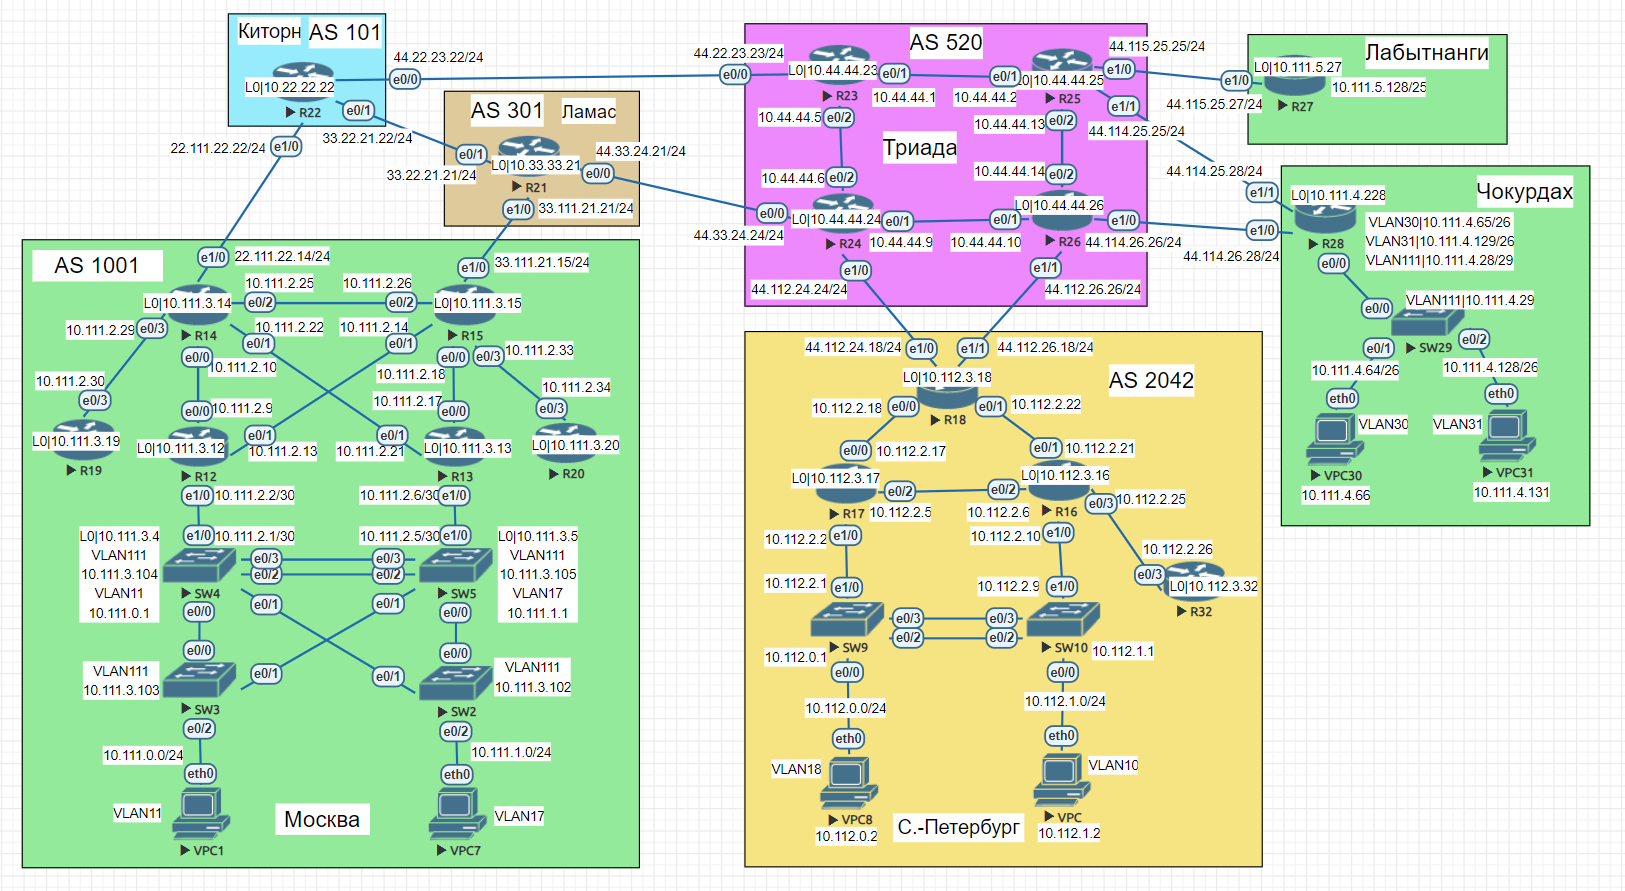
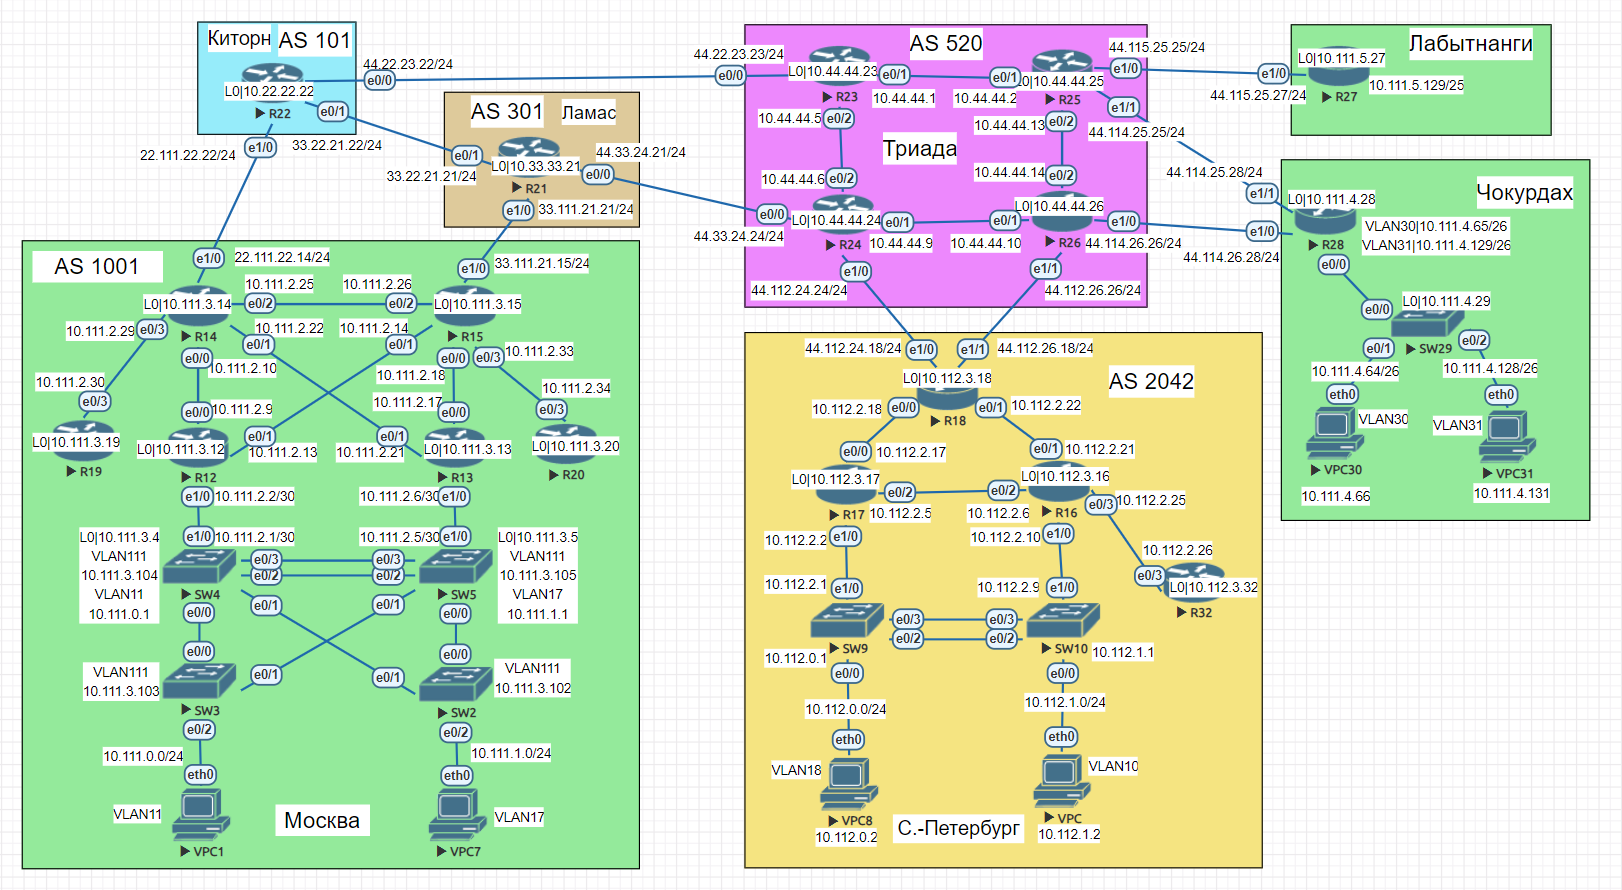
Commit 10.1.6

Changed region(s): [[0.0, 0.0, 0.9864, 1.0], [0.185, 0.6978, 0.2158, 0.7281]]

diff --git a/Labs/Hw05/README.md b/Labs/Hw05/README.md
@@ -15,11 +15,10 @@
 |Чокурдах|
 |VPC30 |eth0     |10.111.4.66  |255.255.255.192|VPC30         |
 |VPC31 |eth0     |10.111.4.131 |255.255.255.192|VPC31         |
-|SW29  |VLAN111	 |10.111.4.29  |255.255.255.248|SW29 Mgmt     |
-|R28   |Loopback0|10.111.4.228 |255.255.255.255|R28 Mgmt      |
+|SW29  |Loopback0|10.111.4.29  |255.255.255.255|SW29 Mgmt     |
+|R28   |Loopback0|10.111.4.28  |255.255.255.255|R28 Mgmt      |
 |R28   |E0/0.30  |10.111.4.65  |255.255.255.192|LAN VPC30     |
 |R28   |E0/0.31  |10.111.4.129 |255.255.255.192|LAN VPC31     |
-|R28   |E0/0.111 |10.111.4.28  |255.255.255.248|SW29 Mgmt     |
 |R28   |E1/0     |44.114.26.28 |255.255.255.0  |to R26 Triada |
 |R28   |E1/1     |44.114.25.28 |255.255.255.0  |to R25 Triada |
 |Лабытнанги|
@@ -67,7 +66,7 @@ track 20 ip sla 20 reachability
 !
 !
 interface Loopback0
- ip address 10.111.4.228 255.255.255.255
+ ip address 10.111.4.28 255.255.255.255
 !
 interface Ethernet0/0
  no ip address
@@ -87,12 +86,6 @@ interface Ethernet0/0.31
 interface Ethernet0/0.77
  encapsulation dot1Q 77 native
 !
-interface Ethernet0/0.111
- description SW29 Mgmt
- encapsulation dot1Q 111
- ip address 10.111.4.28 255.255.255.248
- ip policy route-map VLAN111
-!
 !
 interface Ethernet1/0
  description to R26 Triada
@@ -103,11 +96,6 @@ interface Ethernet1/1
  ip address 44.114.25.28 255.255.255.0
 !
 !
-ip route 0.0.0.0 0.0.0.0 44.114.26.26 40 track 10
-ip route 0.0.0.0 0.0.0.0 44.114.25.25 50 track 20
-!
-ip access-list standard VLAN111
- permit 10.111.4.24 0.0.0.7
 ip access-list standard VLAN30
  permit 10.111.4.64 0.0.0.63
 ip access-list standard VLAN31
@@ -132,34 +120,106 @@ route-map VLAN31 permit 10
  set ip next-hop verify-availability 44.114.25.25 10 track 20
  set ip next-hop verify-availability 44.114.26.26 20 track 10
 !
-route-map VLAN111 deny 10
- match ip address VLAN111
-!
-
 ```
 
 ```
-R28#sh ip sla statistics
+R28#show route-map
+route-map VLAN30, permit, sequence 10
+  Match clauses:
+    ip address (access-lists): VLAN30
+  Set clauses:
+    ip next-hop verify-availability 44.114.26.26 10 track 10  [up]
+    ip next-hop verify-availability 44.114.25.25 20 track 20  [up]
+  Policy routing matches: 55 packets, 5802 bytes
+route-map VLAN31, permit, sequence 10
+  Match clauses:
+    ip address (access-lists): VLAN31
+  Set clauses:
+    ip next-hop verify-availability 44.114.25.25 10 track 20  [up]
+    ip next-hop verify-availability 44.114.26.26 20 track 10  [up]
+  Policy routing matches: 88 packets, 9432 bytes
+
+R28#sho ip sla statistics
 IPSLAs Latest Operation Statistics
 
 IPSLA operation id: 10
         Latest RTT: 1 milliseconds
-Latest operation start time: 18:31:18 MSK Wed Aug 23 2023
+Latest operation start time: 00:28:33 MSK Thu Aug 24 2023
 Latest operation return code: OK
-Number of successes: 133
+Number of successes: 81
 Number of failures: 0
 Operation time to live: Forever
 
 IPSLA operation id: 20
         Latest RTT: 1 milliseconds
-Latest operation start time: 18:31:23 MSK Wed Aug 23 2023
+Latest operation start time: 00:28:33 MSK Thu Aug 24 2023
 Latest operation return code: OK
-Number of successes: 128
+Number of successes: 81
 Number of failures: 0
 Operation time to live: Forever
-
 ```
 
+#### VPC30:
+
+```
+VPC30> ping 44.114.26.26
+
+84 bytes from 44.114.26.26 icmp_seq=1 ttl=254 time=0.666 ms
+84 bytes from 44.114.26.26 icmp_seq=2 ttl=254 time=0.942 ms
+84 bytes from 44.114.26.26 icmp_seq=3 ttl=254 time=0.893 ms
+84 bytes from 44.114.26.26 icmp_seq=4 ttl=254 time=0.917 ms
+84 bytes from 44.114.26.26 icmp_seq=5 ttl=254 time=0.848 ms
+
+VPC30> ping 44.114.25.25
+
+*44.114.26.26 icmp_seq=1 ttl=254 time=1.279 ms (ICMP type:3, code:1, Destination host unreachable)
+*44.114.26.26 icmp_seq=2 ttl=254 time=0.918 ms (ICMP type:3, code:1, Destination host unreachable)
+*44.114.26.26 icmp_seq=3 ttl=254 time=0.980 ms (ICMP type:3, code:1, Destination host unreachable)
+*44.114.26.26 icmp_seq=4 ttl=254 time=0.777 ms (ICMP type:3, code:1, Destination host unreachable)
+*44.114.26.26 icmp_seq=5 ttl=254 time=0.747 ms (ICMP type:3, code:1, Destination host unreachable)
+
+VPC30> trace 44.114.25.25
+trace to 44.114.25.25, 8 hops max, press Ctrl+C to stop
+ 1   10.111.4.65   0.424 ms  0.368 ms  0.626 ms
+ 2   44.114.26.26   0.750 ms  0.772 ms  0.620 ms
+ 3   *44.114.26.26   0.760 ms (ICMP type:3, code:1, Destination host unreachable)  *
+
+VPC30>  trace 44.114.26.26
+trace to 44.114.26.26, 8 hops max, press Ctrl+C to stop
+ 1   10.111.4.65   0.632 ms  0.475 ms  0.500 ms
+ 2   *44.114.26.26   1.111 ms (ICMP type:3, code:3, Destination port unreachable)  *
+```
+
+#### VPC31:
+
+```
+VPC31> ping 44.114.25.25
+
+84 bytes from 44.114.25.25 icmp_seq=1 ttl=254 time=0.682 ms
+84 bytes from 44.114.25.25 icmp_seq=2 ttl=254 time=0.831 ms
+84 bytes from 44.114.25.25 icmp_seq=3 ttl=254 time=1.189 ms
+84 bytes from 44.114.25.25 icmp_seq=4 ttl=254 time=1.103 ms
+84 bytes from 44.114.25.25 icmp_seq=5 ttl=254 time=1.016 ms
+
+VPC31> ping 44.114.26.26
+
+*44.114.25.25 icmp_seq=1 ttl=254 time=0.988 ms (ICMP type:3, code:1, Destination host unreachable)
+*44.114.25.25 icmp_seq=2 ttl=254 time=1.079 ms (ICMP type:3, code:1, Destination host unreachable)
+*44.114.25.25 icmp_seq=3 ttl=254 time=1.289 ms (ICMP type:3, code:1, Destination host unreachable)
+*44.114.25.25 icmp_seq=4 ttl=254 time=1.356 ms (ICMP type:3, code:1, Destination host unreachable)
+*44.114.25.25 icmp_seq=5 ttl=254 time=0.730 ms (ICMP type:3, code:1, Destination host unreachable)
+
+VPC31> trace 44.114.25.25
+trace to 44.114.25.25, 8 hops max, press Ctrl+C to stop
+ 1   10.111.4.129   0.663 ms  0.363 ms  0.334 ms
+ 2   *44.114.25.25   1.039 ms (ICMP type:3, code:3, Destination port unreachable)  *
+
+VPC31> trace 44.114.26.26
+trace to 44.114.26.26, 8 hops max, press Ctrl+C to stop
+ 1   10.111.4.129   0.557 ms  0.521 ms  0.310 ms
+ 2   44.114.25.25   0.728 ms  0.826 ms  0.803 ms
+ 3   *44.114.25.25   0.858 ms (ICMP type:3, code:1, Destination host unreachable)  *
+```
 
 + #### Шаг 4: Настройка маршрута по-умолчанию для офиса Лабытнанги
 

diff --git a/Labs/Hw04/README.md b/Labs/Hw04/README.md
@@ -119,11 +119,10 @@
 |Чокурдах|
 |VPC30 |eth0     |10.111.4.66  |255.255.255.192|VPC30         |
 |VPC31 |eth0     |10.111.4.131 |255.255.255.192|VPC31         |
-|SW29  |VLAN111	 |10.111.4.29  |255.255.255.248|SW29 Mgmt     |
-|R28   |Loopback0|10.111.4.228 |255.255.255.255|R28 Mgmt      |
+|SW29  |Loopback0|10.111.4.29  |255.255.255.255|SW29 Mgmt     |
+|R28   |Loopback0|10.111.4.28  |255.255.255.255|R28 Mgmt      |
 |R28   |E0/0.30  |10.111.4.65  |255.255.255.192|LAN VPC30     |
 |R28   |E0/0.31  |10.111.4.129 |255.255.255.192|LAN VPC31     |
-|R28   |E0/0.111 |10.111.4.28  |255.255.255.248|SW29 Mgmt     |
 |R28   |E1/0     |44.114.26.28 |255.255.255.0  |to R26 Triada |
 |R28   |E1/1     |44.114.25.28 |255.255.255.0  |to R25 Triada |
 |Лабытнанги|
